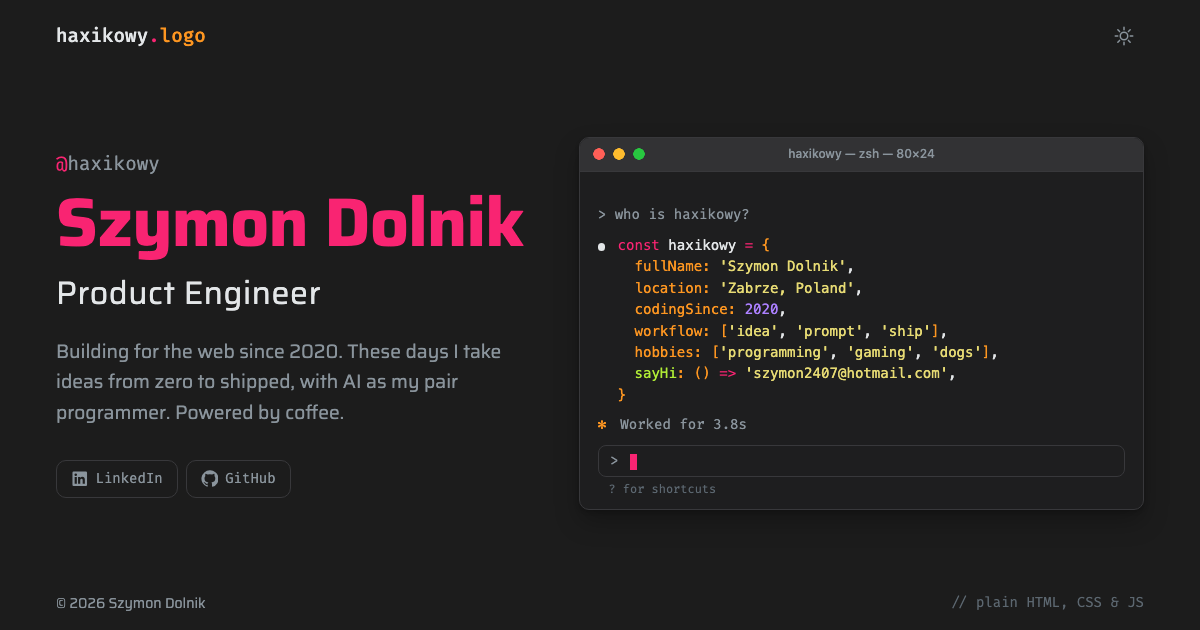
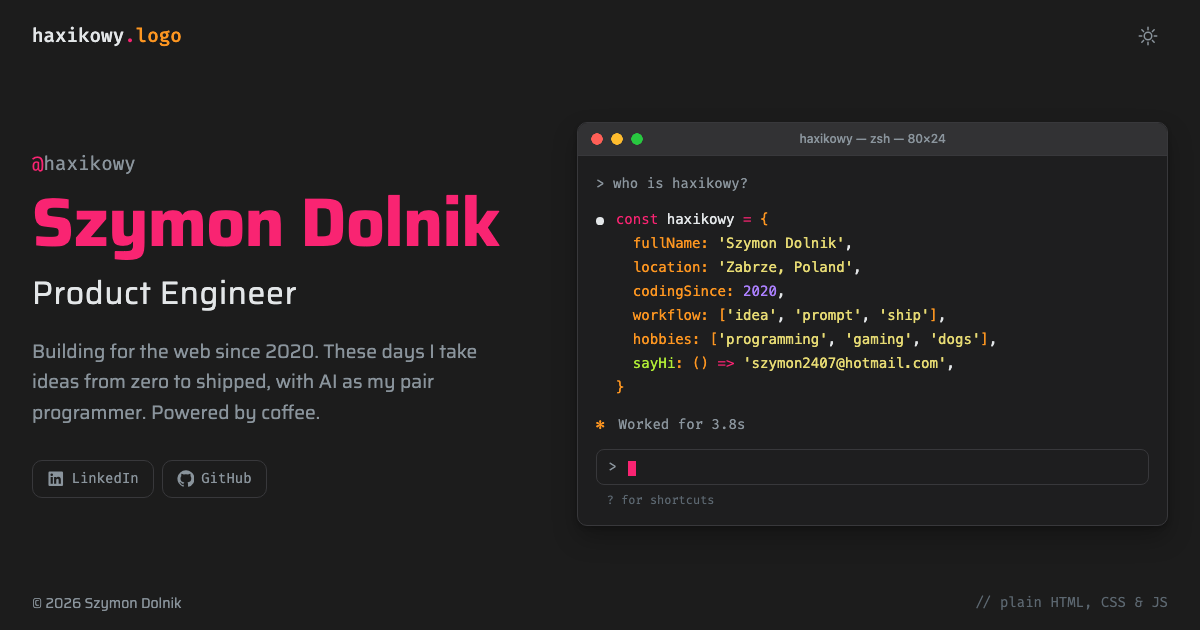
fix: widen container to 1400px and drop terminal aspect ratio

diff --git a/css/style.css b/css/style.css
@@ -48,7 +48,7 @@
   --fz-xl: clamp(2.25rem, 1.4rem + 4vw, 4.25rem);
 
   --radius: 10px;
-  --max-w: 72rem;
+  --max-w: 87.5rem; /* ~1400px */
   --ease: cubic-bezier(.2, .7, .2, 1);
 }
 
@@ -239,7 +239,7 @@ button { font: inherit; color: inherit; background: none; border: 0; cursor: poi
   box-shadow: var(--shadow);
   font-family: var(--font-code);
   font-size: clamp(.68rem, .58rem + .4vw, .9rem);
-  line-height: 1.45;
+  line-height: 1.7;
 }
 [data-theme='light'] .term {
   --term-bg: #ffffff;
@@ -273,15 +273,13 @@ button { font: inherit; color: inherit; background: none; border: 0; cursor: poi
   pointer-events: none;
 }
 
-/* history grows upward; the input box stays pinned to the bottom like a chat CLI.
-   The body keeps the shape of a default 80×24 window: 80 cols × 0.6em by 24 rows × 1.2em = 5:3 */
+/* history grows upward; the input box stays pinned to the bottom like a chat CLI */
 .term__body {
-  aspect-ratio: 5 / 3;
-  overflow: hidden; /* strict ratio: anything extra scrolls off the top, like a real terminal */
+  flex: 1;
   display: grid;
   align-content: end;
-  gap: .65em;
-  padding: .9em 1.25em .8em;
+  gap: .9em;
+  padding: 1.1em 1.25em 1em;
 }
 
 .term__user { color: var(--text-muted); }
@@ -321,7 +319,7 @@ button { font: inherit; color: inherit; background: none; border: 0; cursor: poi
 .term__chevron { color: var(--text-muted); }
 
 .term__hint {
-  margin-top: -.45em;
+  margin-top: -.6em;
   padding-left: .9em;
   font-size: .85em;
   color: var(--comment);
@@ -331,8 +329,7 @@ button { font: inherit; color: inherit; background: none; border: 0; cursor: poi
 
 @media (max-width: 479px) {
   .term { font-size: .64rem; }
-  .term__body { padding: .8em .85em .7em; gap: .55em; }
-  .term__hint { display: none; }
+  .term__body { padding: 1em .85em .9em; }
   .term__reply { grid-template-columns: 1.2em 1fr; }
 }
 
